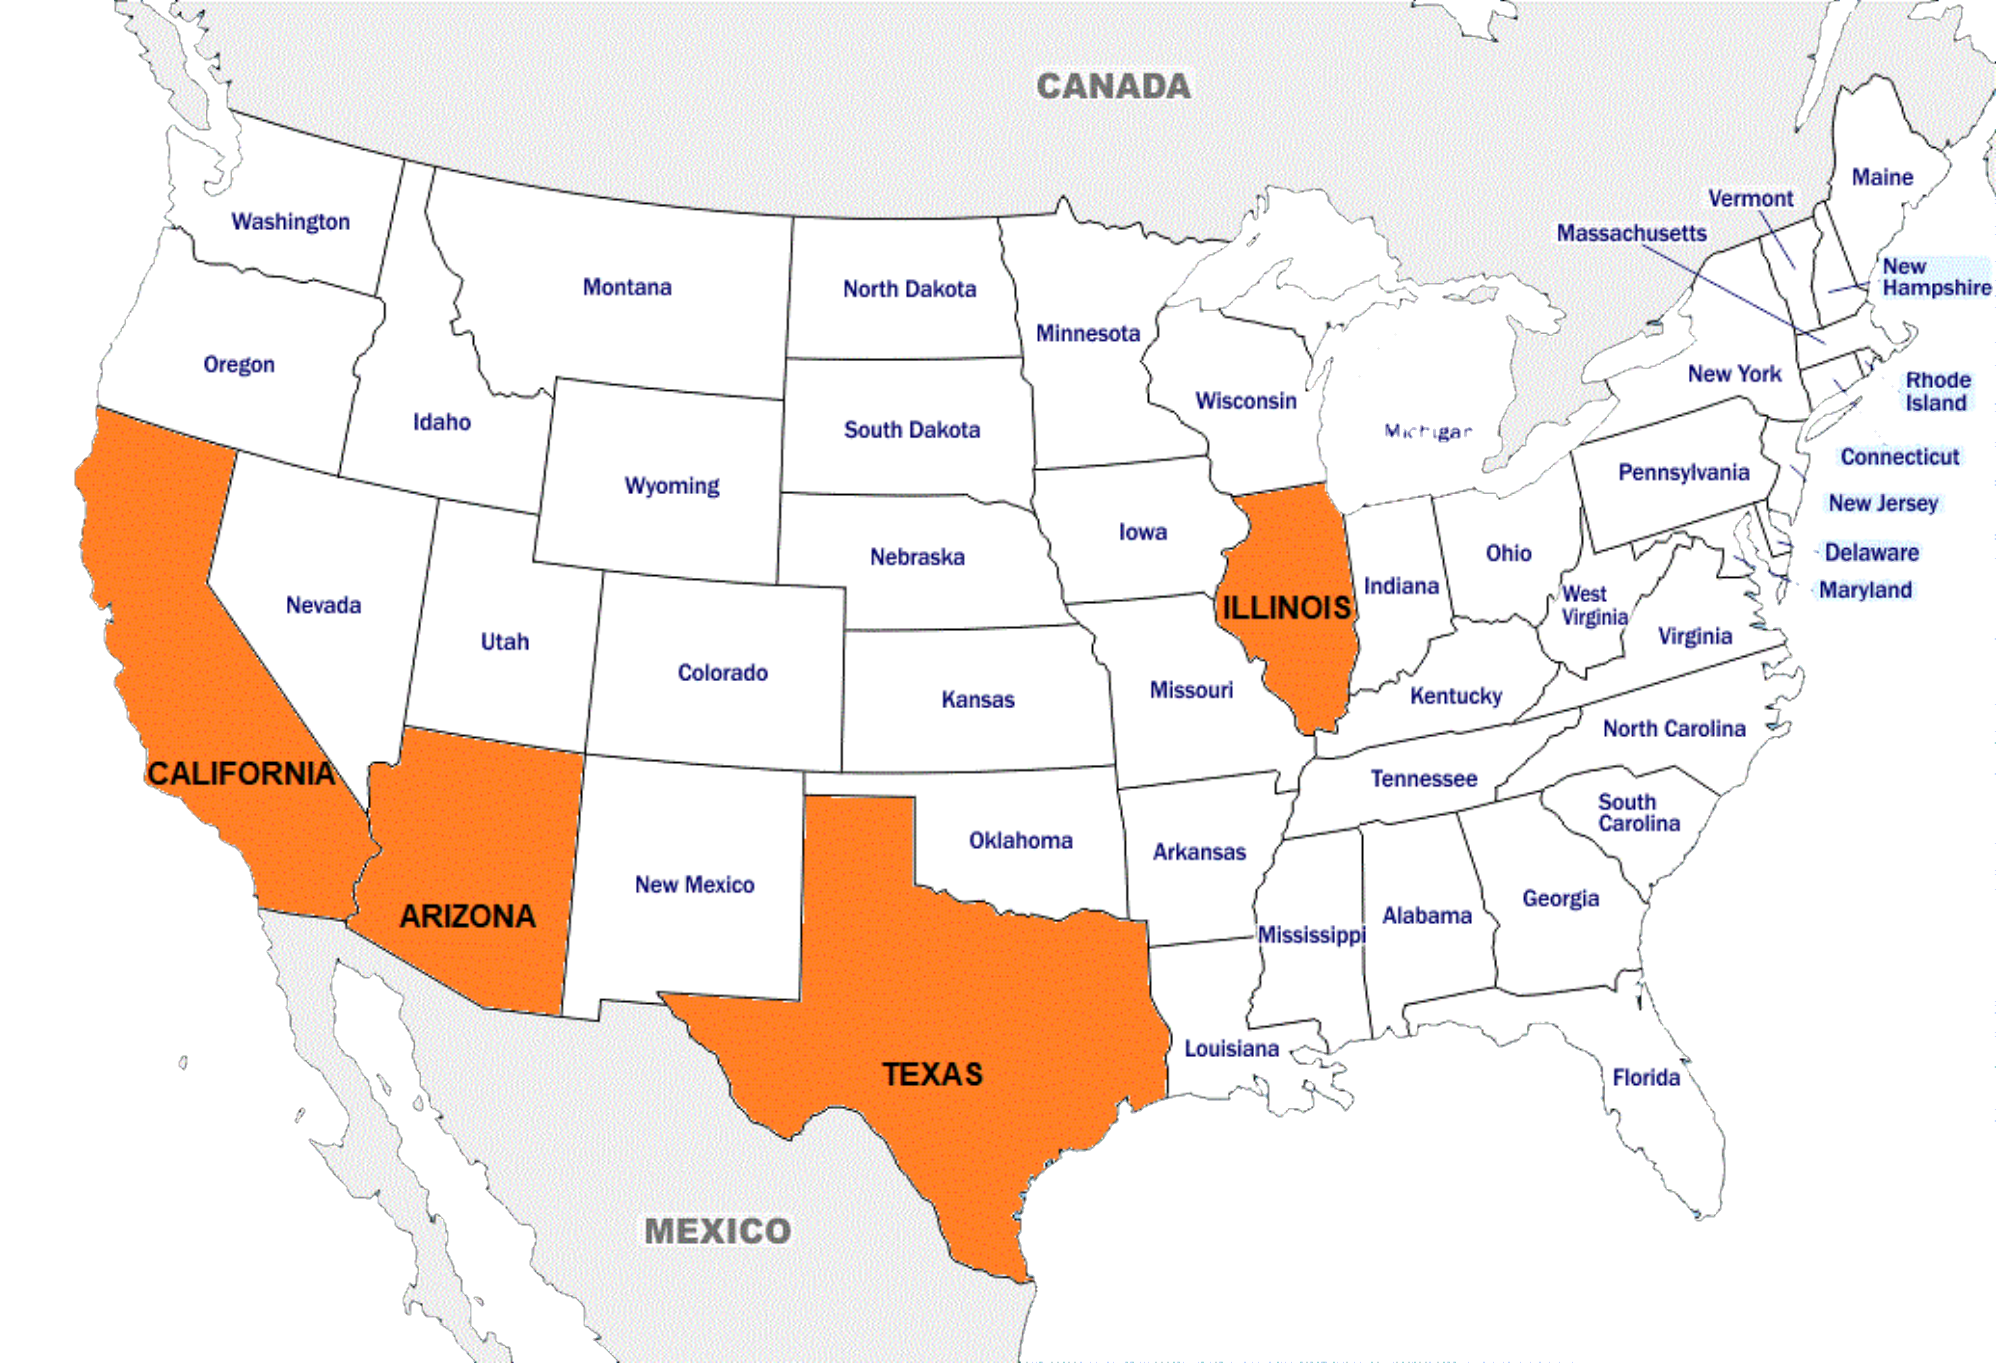
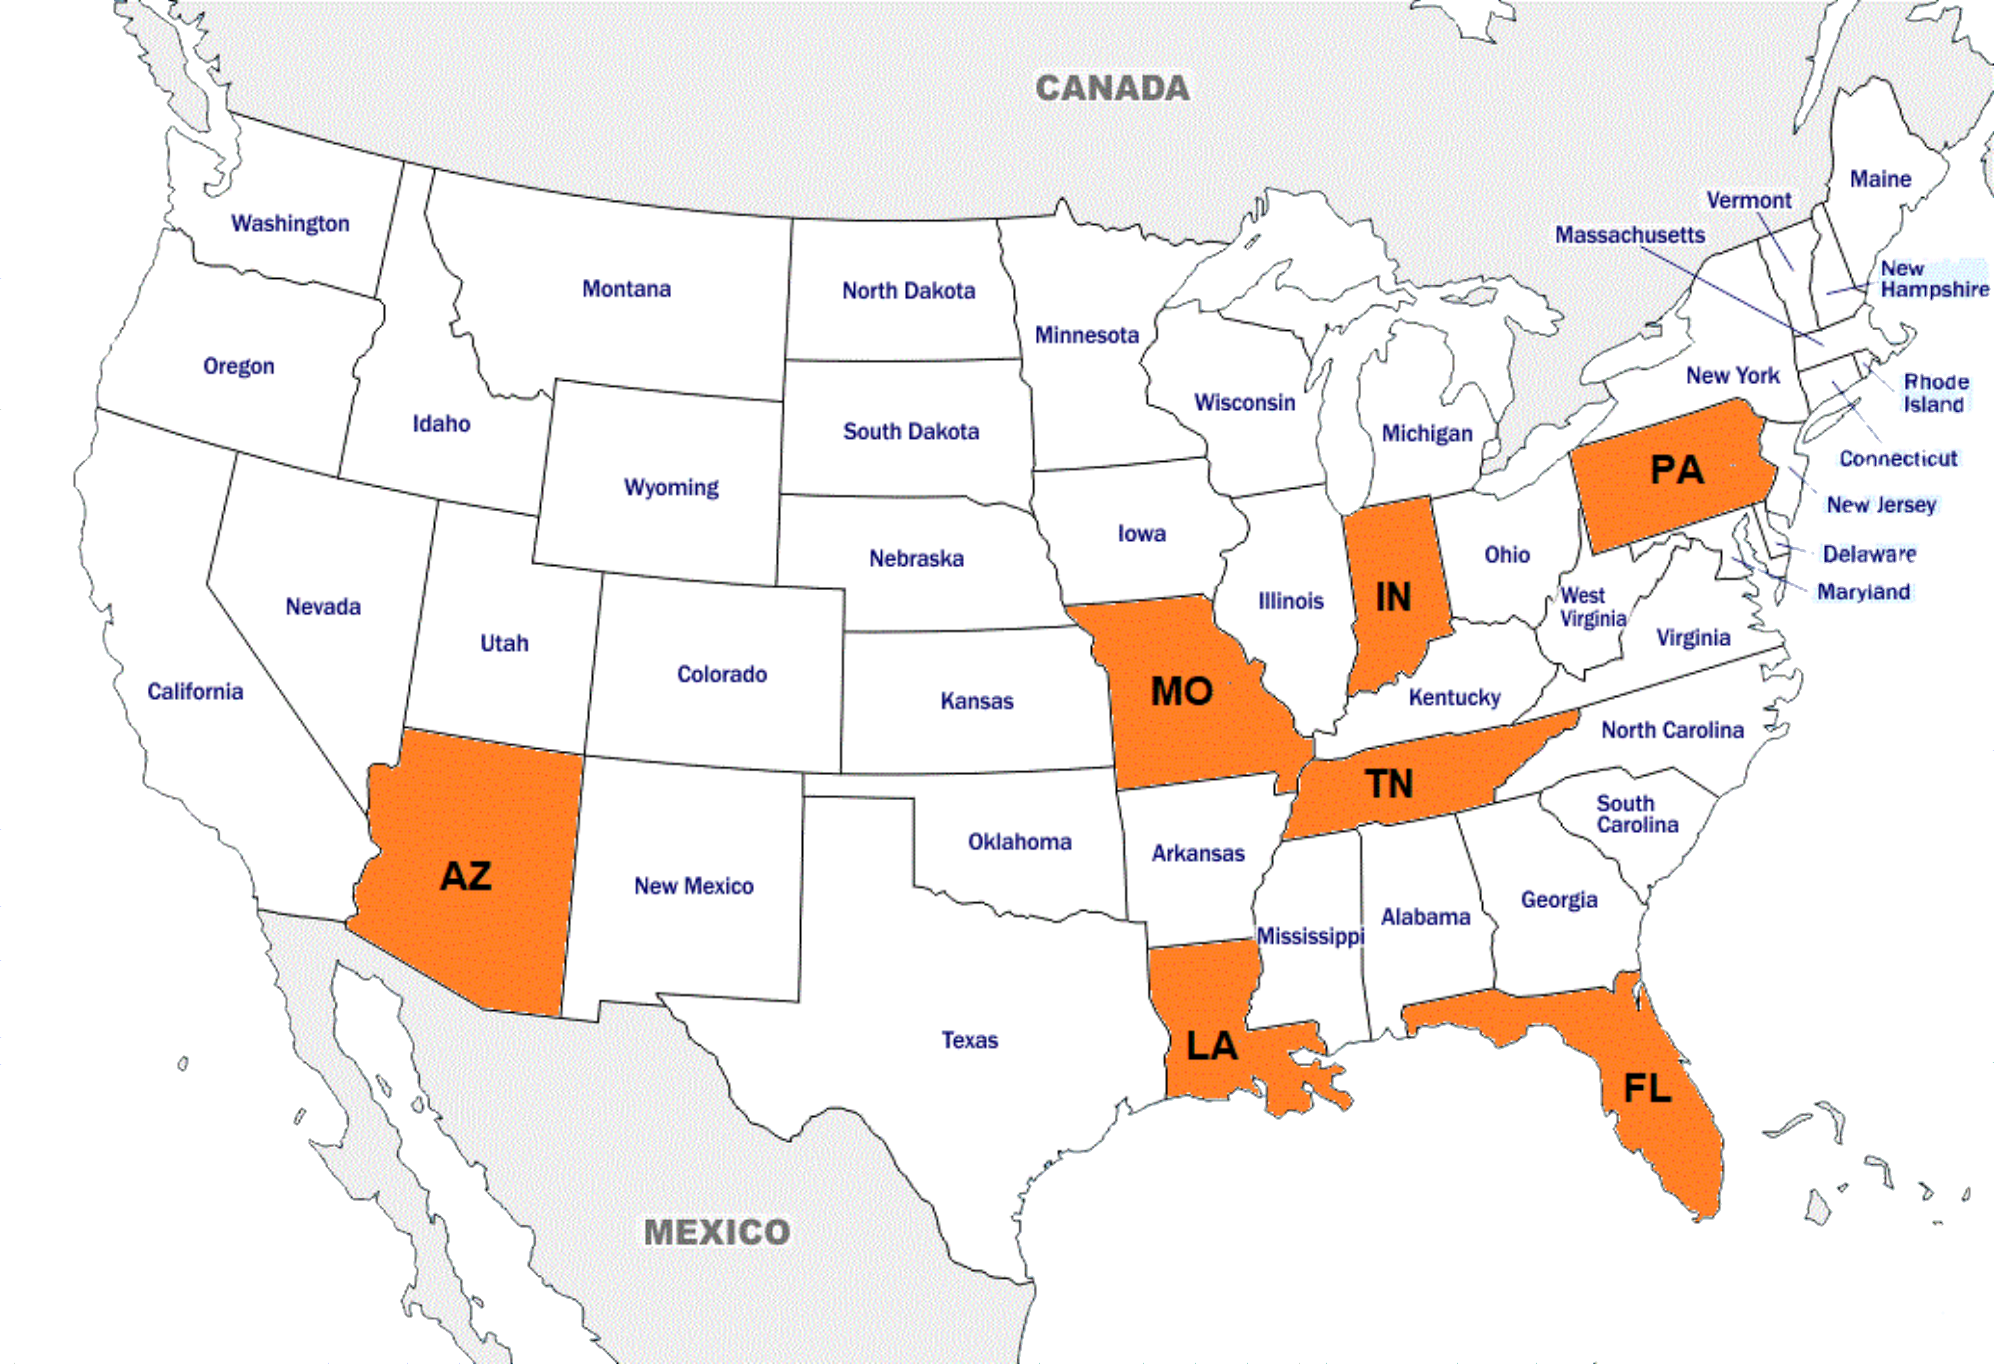
501 commit

diff --git a/3_Sprint#1/Readme.md b/3_Sprint#1/Readme.md
@@ -2,49 +2,60 @@
 
 
 
-##  *1. Rol*
-Somos la consultora SMART DATA especialista en Business Intelligence y Data Analytics. 
+##  *1. Rol del grupo*
+Somos la consultora SMART DATA especialista en Business Intelligence y Data Analytics. Nos dedicamos al análisis de datos del mercado estadounidense. 
+
+
 <img src="Imagenes1\1.png" width="600" height="300">
 
-## *2. Propuesta de trabajo*
-Nos contrató la empresa Gruma, que es la mayor productora de harina de maíz y tortillas en el mundo. Con marcas líderes en la mayoría de sus mercados, opera principalmente en los Estados Unidos, México, Centroamérica, Europa, Asia y Oceanía. 
+## *2. Contexto*
+
+Nos contrató la empresa Gruma, quiere lanzar al mercado nuevos productos y necesita saber si **el consumo de comida mexicana en restaurantes está en crecimiento** en Estados Unidos después del inicio de la pandemia de COVID (desde año 2020 al 2022).
 
 <div style="display: flex; justify-content: center;">
-<img src="Imagenes1\3.jpeg" width="320" height="90" style="margin-right: 70px;">
-<img src="Imagenes1\4.jpg" width="200" height="90">
+<img src="Imagenes1\6.jpg" width="320" height="200" style="margin-right: 70px;">
+<img src="Imagenes1\2.png" width="300" height="150"> 
+
+La población en EE.UU. de origen mexicana es de aproximadamente de 36 millones.
 </div>
 
-Cuenta con alrededor de 23.500 empleados y 73 plantas en Mexico. Tiene ventas netas de aproximadamente U$S 4.600 millones, de las cuales el 74% provinieron de las operaciones fuera de México. 
+La empresa **Gruma**, es la mayor productora de harina de maíz y tortillas en el mundo.
+- Tiene alrededor de 23.500 empleados y 73 plantas industriales en México.
+- Con marcas líderes en la mayoría de sus mercados, opera principalmente en los Estados Unidos, México, Centroamérica, Europa, Asia y Oceanía.
+- Durante el 2022 tuvo ventas netas de aproximadamente U$S 4.600 millones, siendo el 74% de estas ventas provinieron de las operaciones fuera de México.
 
-Alrededor de 37 millones de latinos en Estados Unidos son de origen mexicano, es el grupo más extenso entre la población hispana.
+<div style="display: flex; justify-content: center;">
+<img src="Imagenes1\3.jpeg" width="370" height="150" style="margin-right: 70px;">
 
+<img src="Imagenes1\4.jpg" width="300" height="150"> 
+</div>
 
-##  *3. Objetivos*
+##  *3. Propuesta de trabajo*
 
 **Objetivo general**
 
-Realizar un análisis de mercado de los restaurantes mexicanos en los estados de California, Arizona, Nuevo México y Texas.
+Realizar un análisis de mercado de los restaurantes mexicanos en los estados de:
 
-La empresa Gruma saber si en estos estados la comida mexicana está en crecimiento en cuanto a la aceptación por parte de los consumidores locales después del inicio de la pandemia de COVID (desde año 2020 al 2022).
+- Arizona (AZ)
+- Louisiana (LA)
+- Florida (FL)
+- Missouri (MO)
+- Tennessee (TN)
+- Indiana (IN)
+- Pennsylvania (PA).
 
 <div style="display: flex; justify-content: center;">
 <img src="Imagenes1\5.png" width="620" height="330" style="margin-right: 70px;">
-<img src="Imagenes1\6.jpg" width="500" height="250">
 </div>
 
 
 
 **Objetivos específicos**
 
-Para realizar el análisis de mercado se evaluará desde el año 2020 al 2022.
-
+- Para realizar el análisis de mercado se evaluará desde el año 2020 al 2022.
 - Crecimiento del 2 % en la cantidad de restaurantes de comidas mexicanas por trimestre por estado.
-
 - Crecimiento del 3 % en las calificaciones iguales o mayores a tres estrellas por trimestre por estado.
-
 - Reducción del 5 % en las calificaciones menores a tres estrellas por trimestre por estado.
-
-- Crecimiento del 2 % de reseñas positivas por trimestre por año.
 
 
 ##  *4. Producto final*
@@ -66,32 +77,35 @@ Sistema de recomendación:
 
 <img src="Imagenes1\8.jpeg" width="1000" height="400">
 
-##  *6. Datasets*
+##  *6. Dataset*
 
-Henry nos proporciono un Drive donde se encontraban los datasets de Local Guides de Google Maps y de Yelp, al realizar el análisis exploratorio de datos se termino seleccionando solo los de Yelp debido a que mas se adecuan al trabajo que se desarrollara.
+Henry nos proporciono un Drive donde se encontraban los datasets de Local Guides de Google Maps y de Yelp, al realizar el análisis exploratorio de datos se seleccionando solo los archivos de Yelp debido a que mejor se adecuan al trabajo que se desarrollara. 
 
 **Datasets Yelp**: business.pkl, checkin.json, tip.json, review.json y user.parquet
 
-- Business:
+- business.pkl
     1.	Contiene información sobre negocios, incluyendo su identificación, nombre, dirección, ciudad, estado, código postal, coordenadas geográficas (latitud y longitud), calificación promedio (estrellas), número de reseñas y si el negocio está abierto o no.
     2.	Es posible que algunas columnas tengan valores nulos, lo que puede requerir una limpieza y manejo adecuado de los datos para un análisis preciso.
     3.	Algunas columnas (como "attributes", "categories" y "hours") podrían contener información en formato de diccionario o lista, lo que puede requerir un procesamiento adicional para extraer datos relevantes.
 
-- checkin:
+- checkin.json
     1.	Contiene información sobre los check-ins realizados por los usuarios en diferentes negocios.
     2.	Los datos están anidados en la columna "date", donde múltiples fechas están separadas por comas.
     3.	Se deberían desanidar las fechas para tener una fila por cada fecha asociada a su respectivo "business_id".
 
-- tip:
+- tip.json
     1. Contiene información sobre las propinas ("tips") que los usuarios han dejado en diferentes negocios.
     2. Las columnas incluyen información sobre el usuario que dejó la propina ("user_id"), el negocio en el que se dejó la propina ("business_id"), el texto de la propina ("text"), la fecha en que se dejó la propina ("date"), y la cantidad de cumplidos ("compliment_count") que recibió la propina.
     3. Es posible que algunas columnas, como "text" y "compliment_count", contengan valores nulos o que requieran un procesamiento adicional para extraer información relevante.
 
-- Review 
+- review.json 
     1.	Contiene información sobre las reseñas ("reviews") que los usuarios han dejado en diferentes negocios.
     2.	Las columnas incluyen información sobre el ID de la reseña ("review_id"), el ID del usuario que dejó la reseña ("user_id"), el ID del negocio en el que se dejó la reseña ("business_id"), la calificación ("stars"), y las votaciones útiles ("useful"), divertidas ("funny") y geniales ("cool") que recibió la reseña.
     3.	También contiene el texto de la reseña ("text") donde los usuarios expresan sus opiniones y experiencias sobre el negocio.
     4.	La columna "date" indica la fecha en que se dejó la reseña.
+
+- user.parquet
+    1. xxx
 
 ##  *7. Stack tecnológico*
 
@@ -100,6 +114,12 @@ Henry nos proporciono un Drive donde se encontraban los datasets de Local Guides
 
 ##  *8. Extracción, Transformación y Carga*
 
-Despues del análisis del datasets se genero el siguiente notebook ETL_Metadatos.ipynb
+Se realizó un análisis exploratorio de los datos preliminar y una extracción, limpieza y carga del **dataset de Yelps** en estos notebbok:
+ - xxx.ipynb
+ - xxxx.ipynb
+
+Y se generó este nuevo dataset Yelp_ETL con los siguientes archivos:
+- xxx.csv
+- xxxx.csv
 
 

diff --git a/Readme.md b/Readme.md
@@ -4,15 +4,18 @@
 
 
 
-## 🚀 *1. Descripción del Proyecto*
+## 🚀 *1. Requerimientos del Proyecto*
 
 Proyecto grupal final de la etapa de labs de la carrera de Data Science de la academia SoyHenry.
 
-El **objetivo de este proyecto** es recopilar, depurar y disponibilizar la información en una base de datos (DataWarehouse) de diferentes fuentes, tanto provistas por Henry como incorporadas por ustedes, corriendo en local o alojada en proveedores en la nube. La base de datos depurada deberá contemplar por lo menos dos tipos diferentes de extracción de datos, ejemplo: datos estáticos, llamadas a una API, scrapping, entre otros.
+- [Los requerimiento del proyecto.](https://docs.google.com/document/u/0/d/e/2PACX-1vRtTsN_N3Z0DTLbh_-Xw2OxhOWeV5jmTISRUNzTBpWM9mTnxsT03674UheR4f0hfULc2v4_sW3IgDTv/pub?pli=1)
 
-Reporte y análisis significativos de la(s) línea(s) de investigación escogidas debe contemplar las relaciones entre variables y concluir, si es que existe, una relación entre estas, y los posibles factores que causan dicha relación en la realidad.
+- [Criterios de avaluación del desempeño del grupo.](https://docs.google.com/document/d/1tBuh1LSCmvQB5Wd7-Cj4jj_o5zLk8vtBQFtDhF8oeSY/edit) 
 
-Entrenamiento y puesta en producción de un modelo de machine learning de clasificación no supervisado o supervisado que resuelva un problema y debe relacionarse con los objetivos propuestos en el proyecto.
+- [Tener en cuenta el Disclaimer](https://docs.google.com/document/d/1k_uxvrMwVKjP_q1V_np9HmdtPTwjfL77uXJy2jZqnDE/edit?pli=1#heading=h.ntgoelrzlm1)
+
+
+El **objetivo de este proyecto** tomar el **rol de una consultora** en Business Intelligence y Data Analytics.  Y realizar un análisis detallado de la **opinión de los usuarios** en Yelp y cruzarlos con los de Google Maps sobre un determinado negocio que pueden ser **hoteles, restaurantes, turismo, ocio, etc**.
 
 <div style="display: flex; justify-content: center;">
 
@@ -22,16 +25,14 @@ Entrenamiento y puesta en producción de un modelo de machine learning de clasif
 </div>
 
 
-## 📋 *2. Requerimientos del Proyecto*
+## 📋 *2. Descripcion del Proyecto*
 
-Se deberá tomar el **rol de una consultora** en Business Intelligence y Data Analytics. En este contexto, nos ha contratado una empresa para realizar un análisis del mercado estadounidense.
+Se realizó un **análisis de mercado de los restaurantes mexicanos** que se encuentran en Estados Unidos y se evaluo su desempeño desde el inicio de la Pandemia por COVID desde le año 2020 al año 2022.
 
-Nuestro cliente es una empresas que desea tener un análisis detallado de la **opinión de los usuarios** en Yelp y cruzarlos con los de Google Maps sobre un determinado negocio que pueden ser **hoteles, restaurantes, turismo, ocio, etc**.
-
-Además, quieren brindar un sistema de recomendación para los usuarios de ambas plataformas (Yelp y Google Maps) para darle la posibilidad de poder conocer nuevos productos y/o servicios.
+Para **evaluar el desempeño de los restaurantes** se planteó tres indicadores claves de desempeño (KPI), un análisis de sentimiento y un sistema de recomendación.
 
 
-<div style="display: flex; justify-content: center;"><img src="2_Imagenes\4.png" width="450" height="270"></div>
+<div style="display: flex; justify-content: center;"><img src="2_Imagenes/6.jpg" width="450" height="270"></div>
 
 
 🍗🥗🍝🧀🍻 Muchos usuarios leen las reseñas de los lugares a los que planean ir para tomar decisiones sobre dónde comprar, comer, dormir, reunirse, etc. 
@@ -51,6 +52,7 @@ El proyecto se llevo a cabo en tres etapas:
 - 3° Etapa: Data Analytics y Machine Learning.🦾 👉[Sprint#3](5_Sprint#3)
 
 
+
 ## 🗂 *4. Datasets*
 
 Los datasets fueron brindados por Henry:
@@ -62,13 +64,10 @@ Los datasets fueron brindados por Henry:
 
 ## 📈 *5. Conclusíones*
 
-Durante el proceso del trabajo ...
+Se realizará esto cuando se finalize con el trabajo.... ... .. .
 
 ## 📚 *6. Bibliografia*
 
-- [Sobre el proyecto final](https://docs.google.com/document/u/0/d/e/2PACX-1vRtTsN_N3Z0DTLbh_-Xw2OxhOWeV5jmTISRUNzTBpWM9mTnxsT03674UheR4f0hfULc2v4_sW3IgDTv/pub?pli=1)
-- [Rúbrica Product Owners](https://docs.google.com/document/d/1tBuh1LSCmvQB5Wd7-Cj4jj_o5zLk8vtBQFtDhF8oeSY/edit)
-- [Disclaimer-Servicios-Mini FAQ](https://docs.google.com/document/d/1k_uxvrMwVKjP_q1V_np9HmdtPTwjfL77uXJy2jZqnDE/edit?pli=1#heading=h.ntgoelrzlm1)
 - [Emoji-cheat-sheet](https://github.com/ikatyang/emoji-cheat-sheet/blob/master/README.md#smileys--emotion)
 - [Fundación Carlo Slim](https://accesolatino.org/noticias/cuatro-datos-clave-de-la-poblacion-latina-en-ee-uu/)
 - [Gruma](https://www.gruma.com/es/sala-de-prensa/noticias-y-comunicados/julio-19-2023-operaciones-de-gruma-fuera-de-mexico-impulsan-crecimiento-de-24percent-en-ventas-netas-y-31percent-en-ebitda-durante-el-2t23.aspx)
@@ -76,18 +75,22 @@ Durante el proceso del trabajo ...
 
 ## 👥 *7. Integrantes*
 
-Henry Mentor
+Henry Mentor:
 - **Angela Aguirre**: aguirrealvareza97@gmail.com | Linkedin | GitHub.
 
-Product Owner
+Product Owner:
 - **xxx**: xxx@gmail.com | Linkedin | GitHub.
 
-Grupo N° 1
-- **Marta Inés Pedriel**: martainesped@gmail.com | Linkedin | GitHub.
-- **Javier Baez Esqueda**: drbaez072@hotmail.com | Linkedin | GitHub.
-- **Carlos Antonio Baez**: cabaez2011@gmail.com | Linkedin | GitHub.
-- **Steven Yuval Barrantes Briceño**: stevenyb56@hotmail.com | Linkedin | GitHub.
-- **Hernán Pizarro**: hern4npizarro@gmail.com | [Linkedin](www.linkedin.com/in/hernán-pizarro-683679268) | [GitHub](https://github.com/Hern4nOckham).
+**Grupo N° 1**:
+
+Data Analyst / Data Science
+  - **Marta Inés Pedriel**: martainesped@gmail.com | Linkedin | GitHub.
+  - **Hernán Pizarro**: hern4npizarro@gmail.com | [Linkedin](www.linkedin.com/in/hernán-pizarro-683679268) | [GitHub](https://github.com/Hern4nOckham).
+
+Data Engineer / Data Science
+  - **Javier Baez Esqueda**: drbaez072@hotmail.com | Linkedin | GitHub.
+  - **Carlos Antonio Baez**: cabaez2011@gmail.com | Linkedin | GitHub.
+  - **Steven Yuval Barrantes Briceño**: stevenyb56@hotmail.com | Linkedin | GitHub.
 
 
 ## ⚠ *8. Disclaimer*
